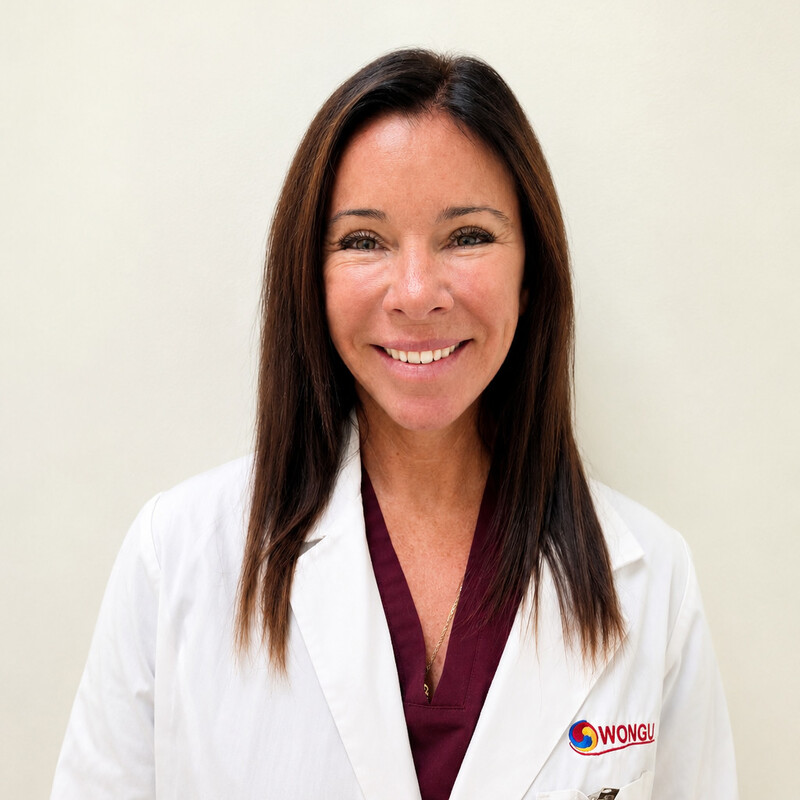
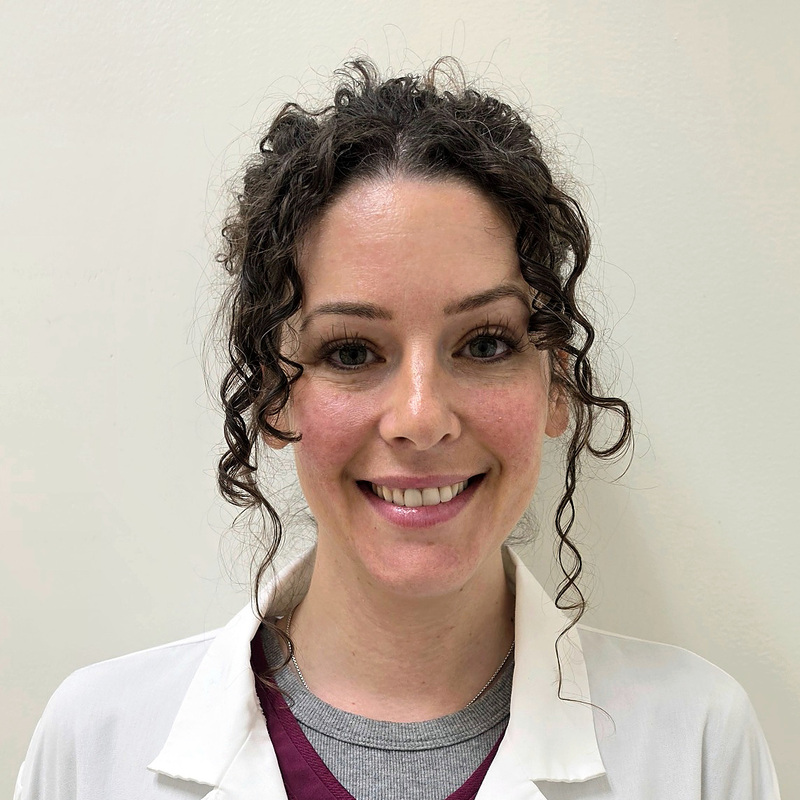
Restore Brittany's photo, add Amy Paolinelli as a new intern
The photo used to replace Brittany's headshot was actually Amy Paolinelli.
Reverted Brittany to her original photo and added Amy as her own card.

diff --git a/student-clinic.html b/student-clinic.html
@@ -154,6 +154,14 @@
           <p class="team-card-role">Senior Intern</p>
           <p class="team-card-bio">Roman is finishing up his final year at Wongu University and approaches patient care with focus and professionalism. He is dedicated to clear communication and helping patients achieve lasting wellness.</p>
         </article>
+        <article class="student-intern-card">
+          <div class="intern-photo">
+            <img src="images/intern-amy.jpg" width="800" height="800" alt="Wongu student intern Amy Paolinelli at the student clinic" class="staff-headshot" loading="lazy" decoding="async">
+          </div>
+          <h3>Amy Paolinelli</h3>
+          <p class="team-card-role">Senior Intern</p>
+          <p class="team-card-bio">Amy is finishing up her final year at Wongu University and brings a warm, attentive approach to patient care. She is dedicated to helping patients feel comfortable and supported throughout treatment.</p>
+        </article>
       </div>
     </div>
   </section>
